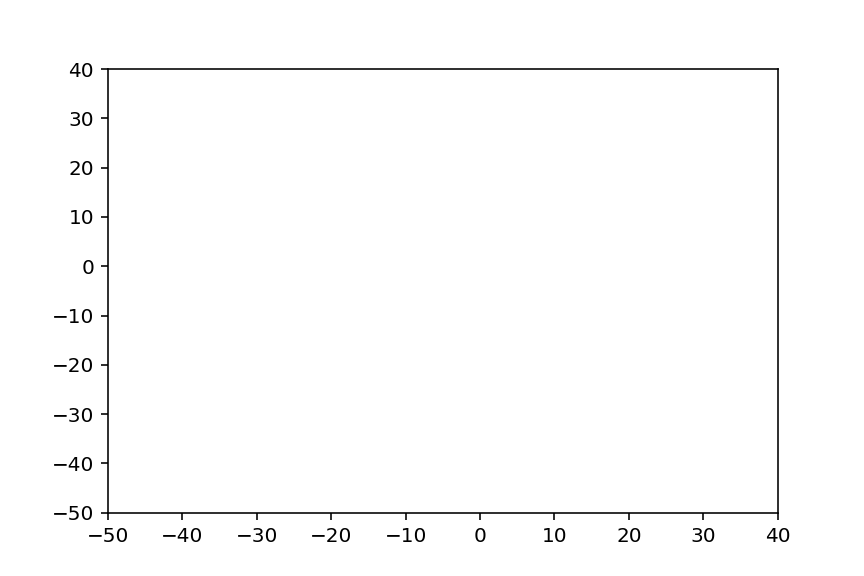
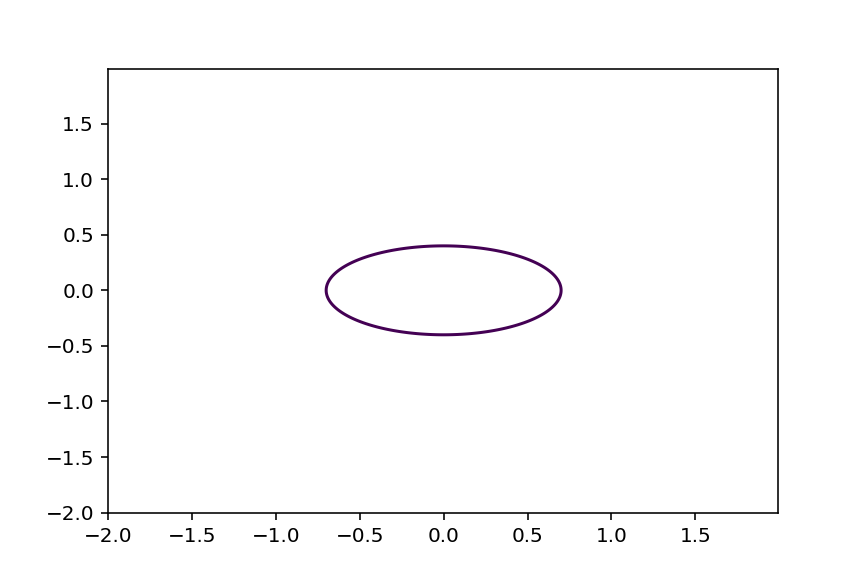
изменения

diff --git a/test_3.py b/test_3.py
@@ -1,16 +1,16 @@
 import matplotlib.pyplot as plt
 import numpy as np
 
-def ellipse(x_limits0, x_limits1, y_limits0, y_limits1, N, a = 1, b = 1):
+def ellipse(x_limits0, x_limits1, y_limits0, y_limits1, N, a = 0.7, b = 0.4):
     
     x = np.arange(x_limits0, x_limits1, N)
     y = np.arange(y_limits0, y_limits1, N)
     X, Y = np.meshgrid(x, y)
-    fxy = X**2 / a**2 + Y**2 / b**2
+    fxy = X**2 / a**2 + Y**2 / b**2 - 1
     
     plt.contour(X, Y, fxy, levels=[0])
     plt.savefig('ellipse.png')
     
 if __name__ == '__main__':
-    ellipse(-50, 50, -50, 50, 10)
+    ellipse(-2, 2, -2, 2, 0.01)
     
